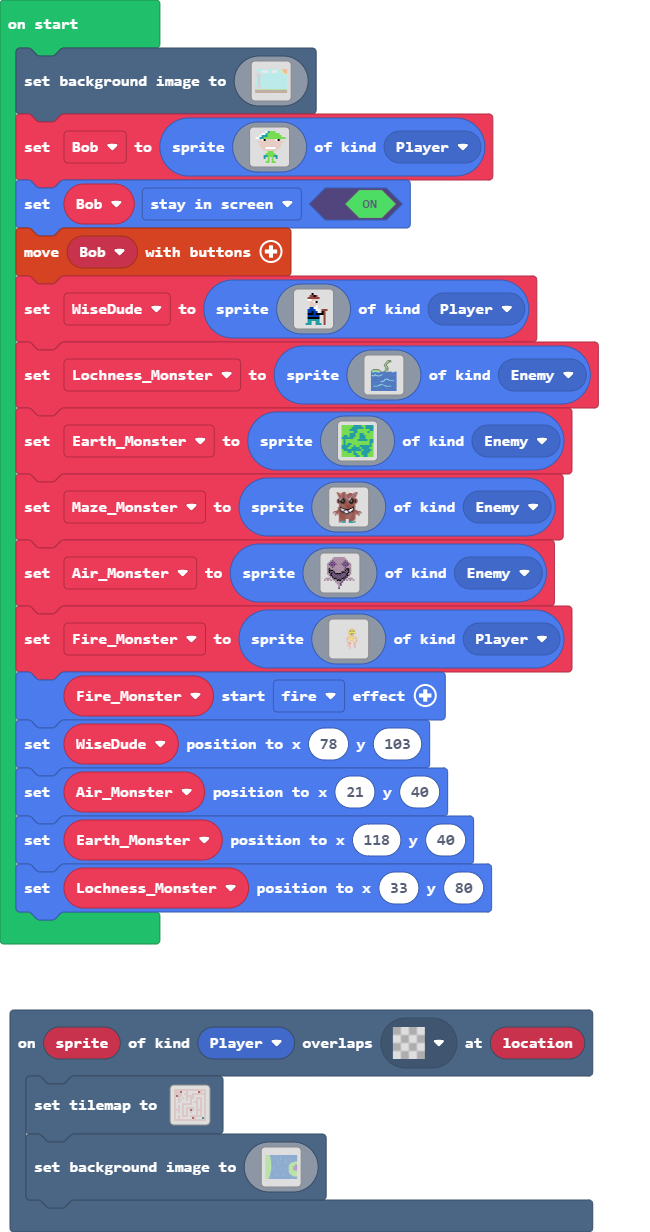
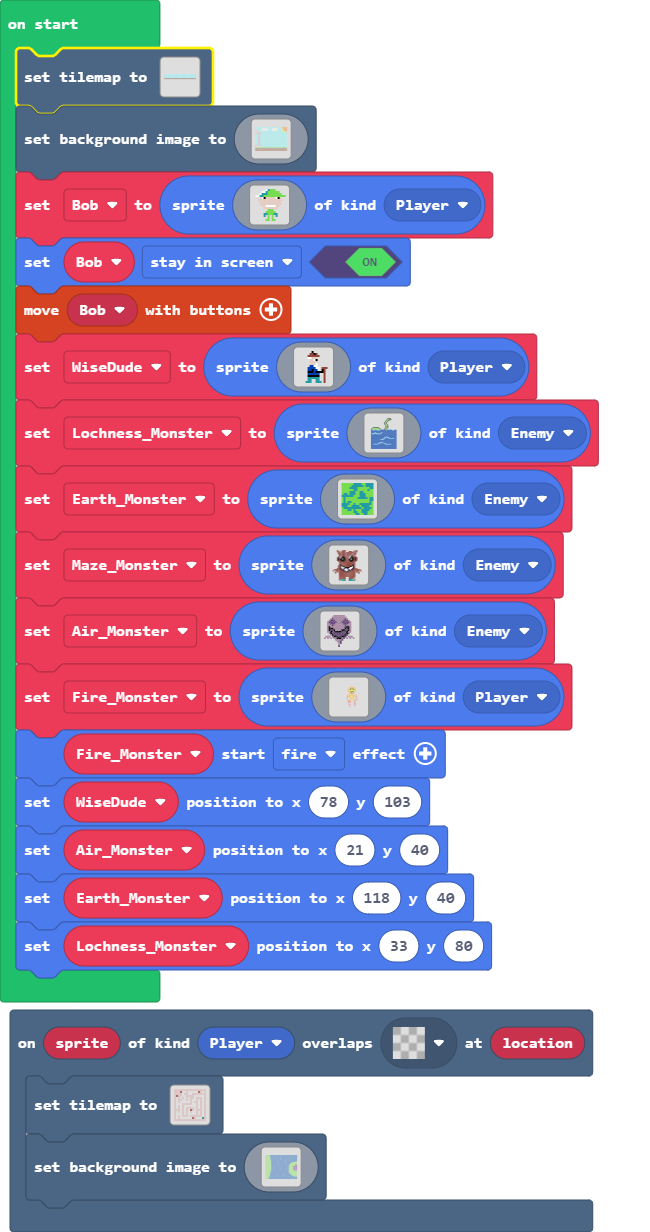
Update main.blocks, main.ts

diff --git a/main.ts b/main.ts
@@ -140,6 +140,24 @@ scene.onOverlapTile(SpriteKind.Player, myTiles.transparency16, function (sprite,
         7777777777777777788888888888888888888888888888888888888888888888888888888888888888888888888888888888888888888888888888888888888888888888898888888888888888888888
         `)
 })
+tiles.setTilemap(tiles.createTilemap(hex`6400100003030303030303030303030303030303030303030303030303030303030303030303030303030303030303030303030303030303030303030303030303030303030303030303030303030303030303030303030303030303030303030303030303030303040404040403030303030303030303030303030303030303030303030303030303030303030303030303030303030303030303030303030303030303030303030303030303030303030303030303030303030303030303030303030303030303030303030404040404040303030303030303030303030303030303030303030303030303030303030303030303030303030303030303030303030303030303030303030303030303030303030303030303030303030303030303030303030303030303030303030304040404040403030303030303030303030303030303030303030303030303030303030303030303030303030303030303030303030303030303030303030303030303030303030303030303030303030303030303030303030303030303030303030303030303050303030303030303030303030303030303030303030303030303030303030303030303030303030303030303030303030303030303030303030303030303030303030303030303030303030303030303030303030303030303030303030303030303030503030303030303030303030303030303030303030303030303030303030303030303030303030303030303030303030303030303030303030303030303030303030303030303030303030303030303030303030303030303030303030303030303030305030303030303030303030303030303030303030303030303030303030303030303030303030303030303030303030303030303030303030303030303030303030303030303030303030303030303030303030303030303030303030303030303030303050303030303030303030303030303030303030303030303030303030303030303030303030303030303030303030303030303030303030303030303030303030303030303030303030303030303030303030303030303030303030303030303030303030503030303030303030303030303030303030303030303030303030303030303030303030303030303030303030303030303030303030303030303030303030303030303030303030303030303030303030303030303030303030303030303030303030305030303030303030303030303030303030303030303030303030303030303030303030303030303030303030303030303030303030303030303030303030303030303030303030303030303030303030303030303030303030303030303030303030303050303030303030303030303030303030303030303030303030303030303030303030303030303030303030303030303030303030303030303030303030303030303030303030303030303030303030303030303030303030303030303030303030404040404040303030303030303030303030303030303030303030303030303030303030303030303030303030303030303030303030303030303030303030303030303030303030303030303030303030303030303030303030303030303030303030304040404040404040303030303030303030303030303030303030303030303030303030303030303030303030303030303030303030303030303030303030303030303030303030303030303030303030303030303030303030303030303030303030303010101010101010101010101010101010101010101010101010101010101010101010101010101010101010101010101010101010101010101010101010101010101010101010101010101010101010101010101010101010101010101010101010101010202020202020202020202020202020202020202020202020202020202020202020202020202020202020202020202020202020202020202020202020202020202020202020202020202020202020202020202020202020202020202020202020202020202020202020202020202020202020202020202020202020202020202020202020202020202020202020202020202020202020202020202020202020202020202020202020202020202020202020202020202020202020202020202020202020202020202`, img`
+    ....................................................................................................
+    22222...............................................................................................
+    .....2..............................................................................................
+    222222..............................................................................................
+    ....................................................................................................
+    ....................................................................................................
+    ....................................................................................................
+    ....................................................................................................
+    ....................................................................................................
+    ....................................................................................................
+    ....................................................................................................
+    222222..............................................................................................
+    ......22............................................................................................
+    2222222222222222222222222222222222222222222222222222222222222222222222222222222222222222222222222222
+    ....................................................................................................
+    ....................................................................................................
+    `, [myTiles.transparency16,myTiles.tile1,myTiles.tile3,myTiles.tile4,myTiles.tile5,myTiles.tile6], TileScale.Sixteen))
 scene.setBackgroundImage(img`
     9999999999999999999999999999999999999999999999999999999999999999999999999999999999999999999999999999999999999999999999999999999999555555544444444444444444444444
     9999999999999999999999999999999999999999999999999999999999999999999999999999999999999999999999999999999999999999999999999999999999955555544444444444444444444444
